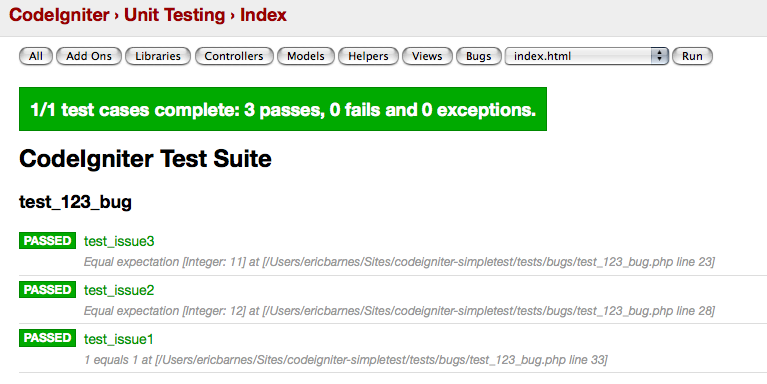
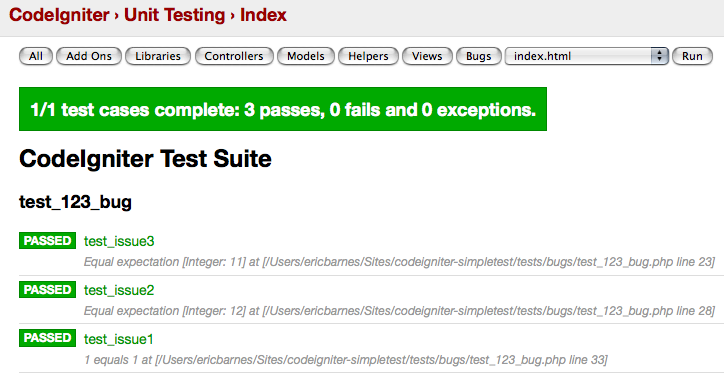
Resized screenshots

diff --git a/README.md b/README.md
@@ -15,4 +15,6 @@ I have included a full download of simpletest and the only customization I have 
 
 # Screenshots
 
+![Passed Test](http://github.com/ericbarnes/codeigniter-simpletest/raw/master/screenshots/passed.png "Passed Test")
+
 ![Failed Test](http://github.com/ericbarnes/codeigniter-simpletest/raw/master/screenshots/failed.png "Failed Test")
